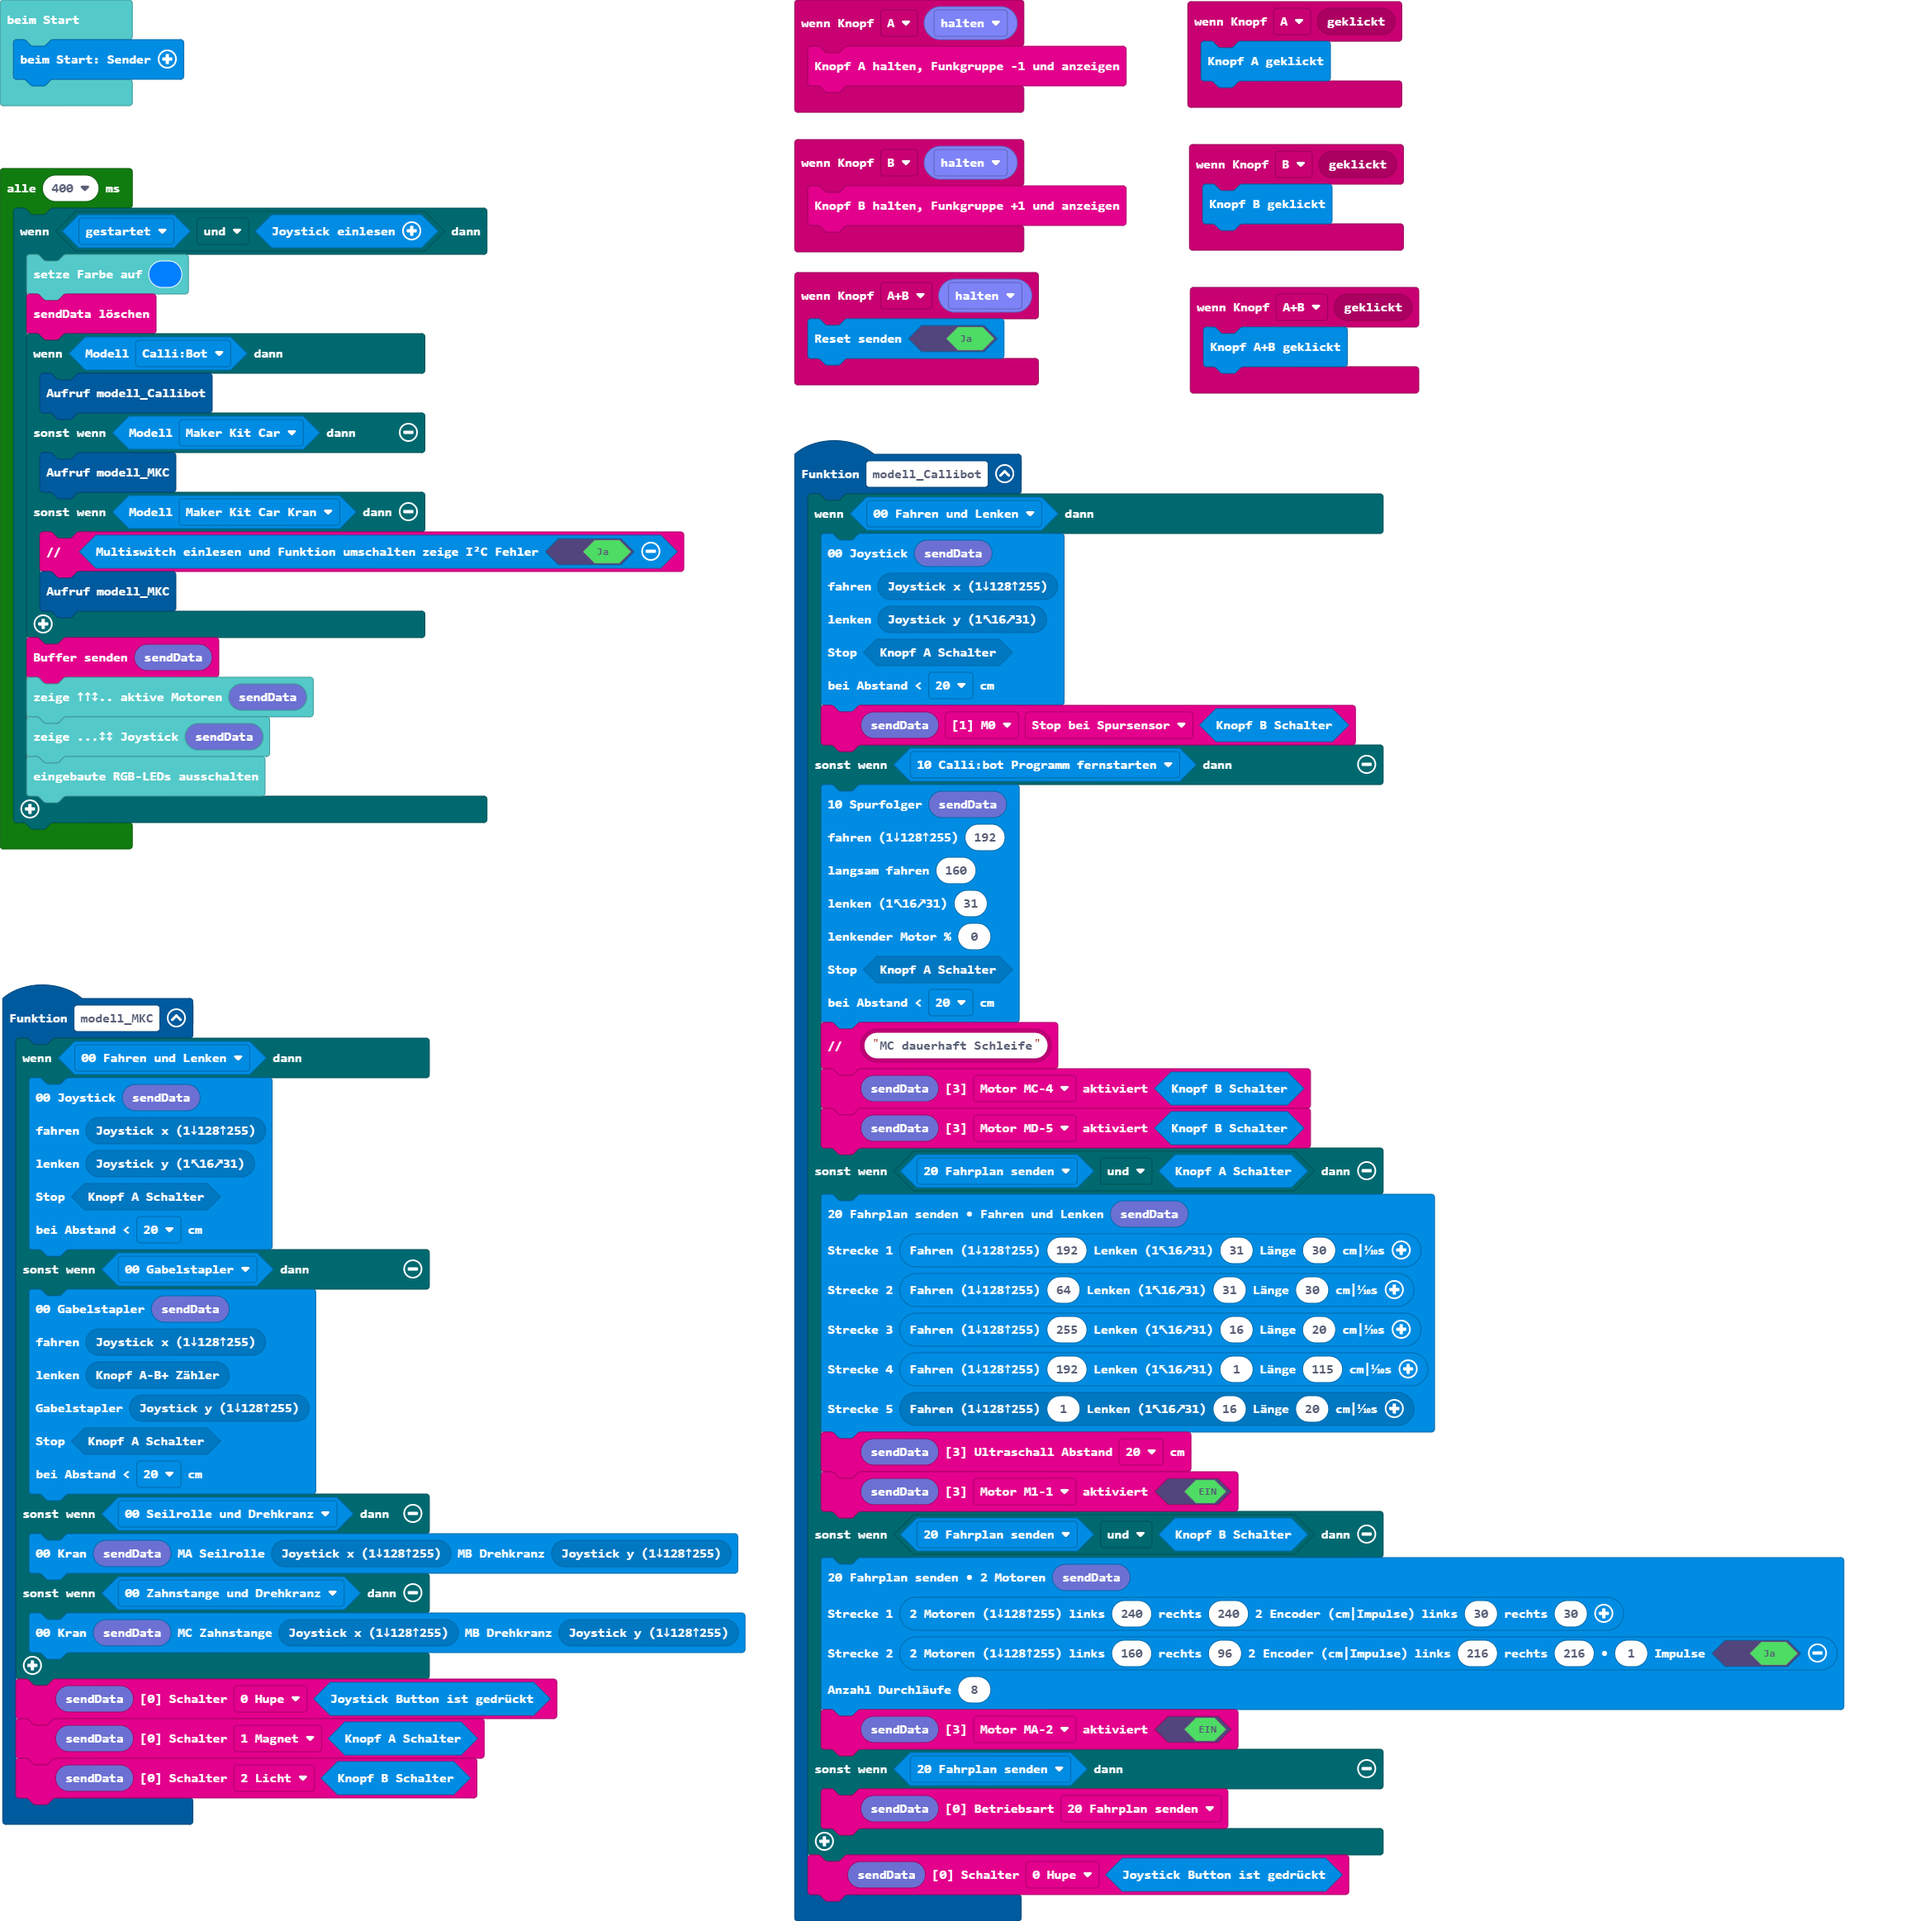
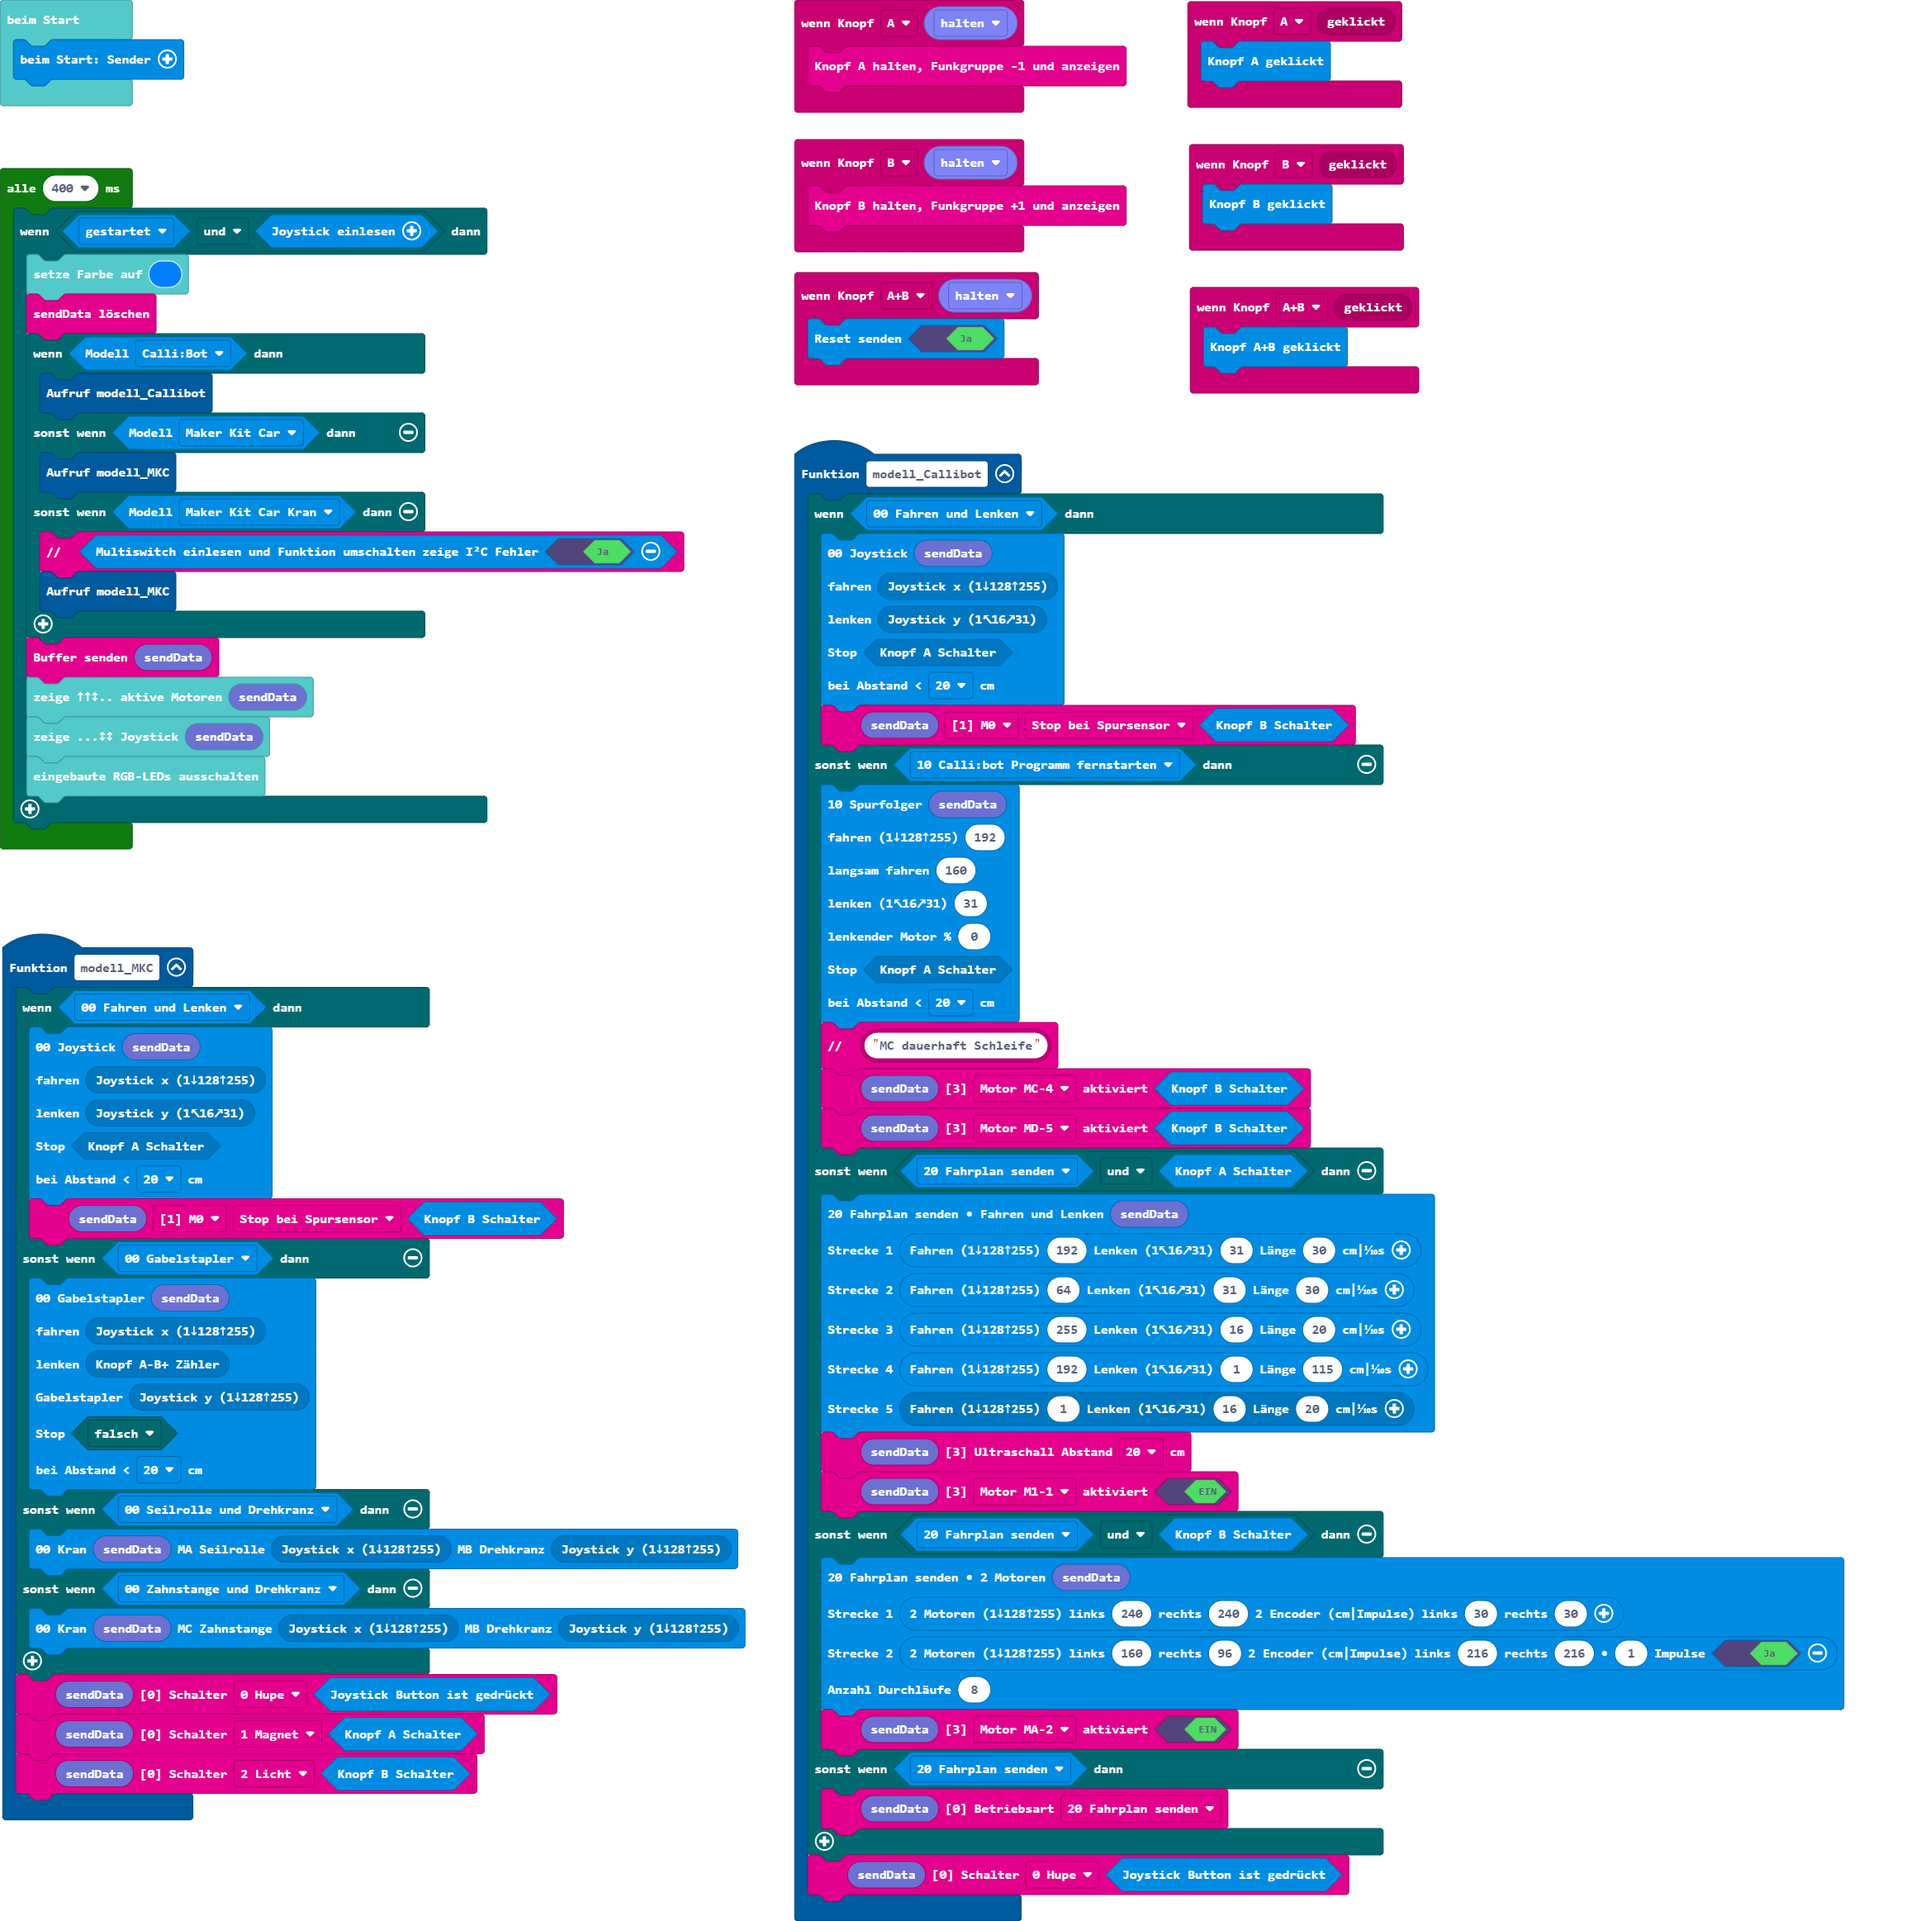
Aktualisiere pxt.json, main.blocks, main.ts

Changed region(s): [[0.0, 0.4643, 0.4061, 0.9596]]

diff --git a/main.ts b/main.ts
@@ -69,13 +69,14 @@ function modell_MKC () {
         sender.sender_ButtonA_Switch(),
         btf.e3Abstand.u2
         )
+        btf.setSensor(btf.btf_sendBuffer19(), btf.eBufferPointer.m0, btf.eSensor.b5Spur, sender.sender_ButtonB_Switch())
     } else if (sender.isFunktion(sender.eFunktion.m0_m1_s0)) {
         sender.send00M01Gabelstapler(
         btf.btf_sendBuffer19(),
         sender.sender_xmotor(),
         sender.sender_ButtonAB_Counter(),
         sender.sender_ymotor(),
-        sender.sender_ButtonA_Switch(),
+        false,
         btf.e3Abstand.u2
         )
     } else if (sender.isFunktion(sender.eFunktion.ma_mb)) {
